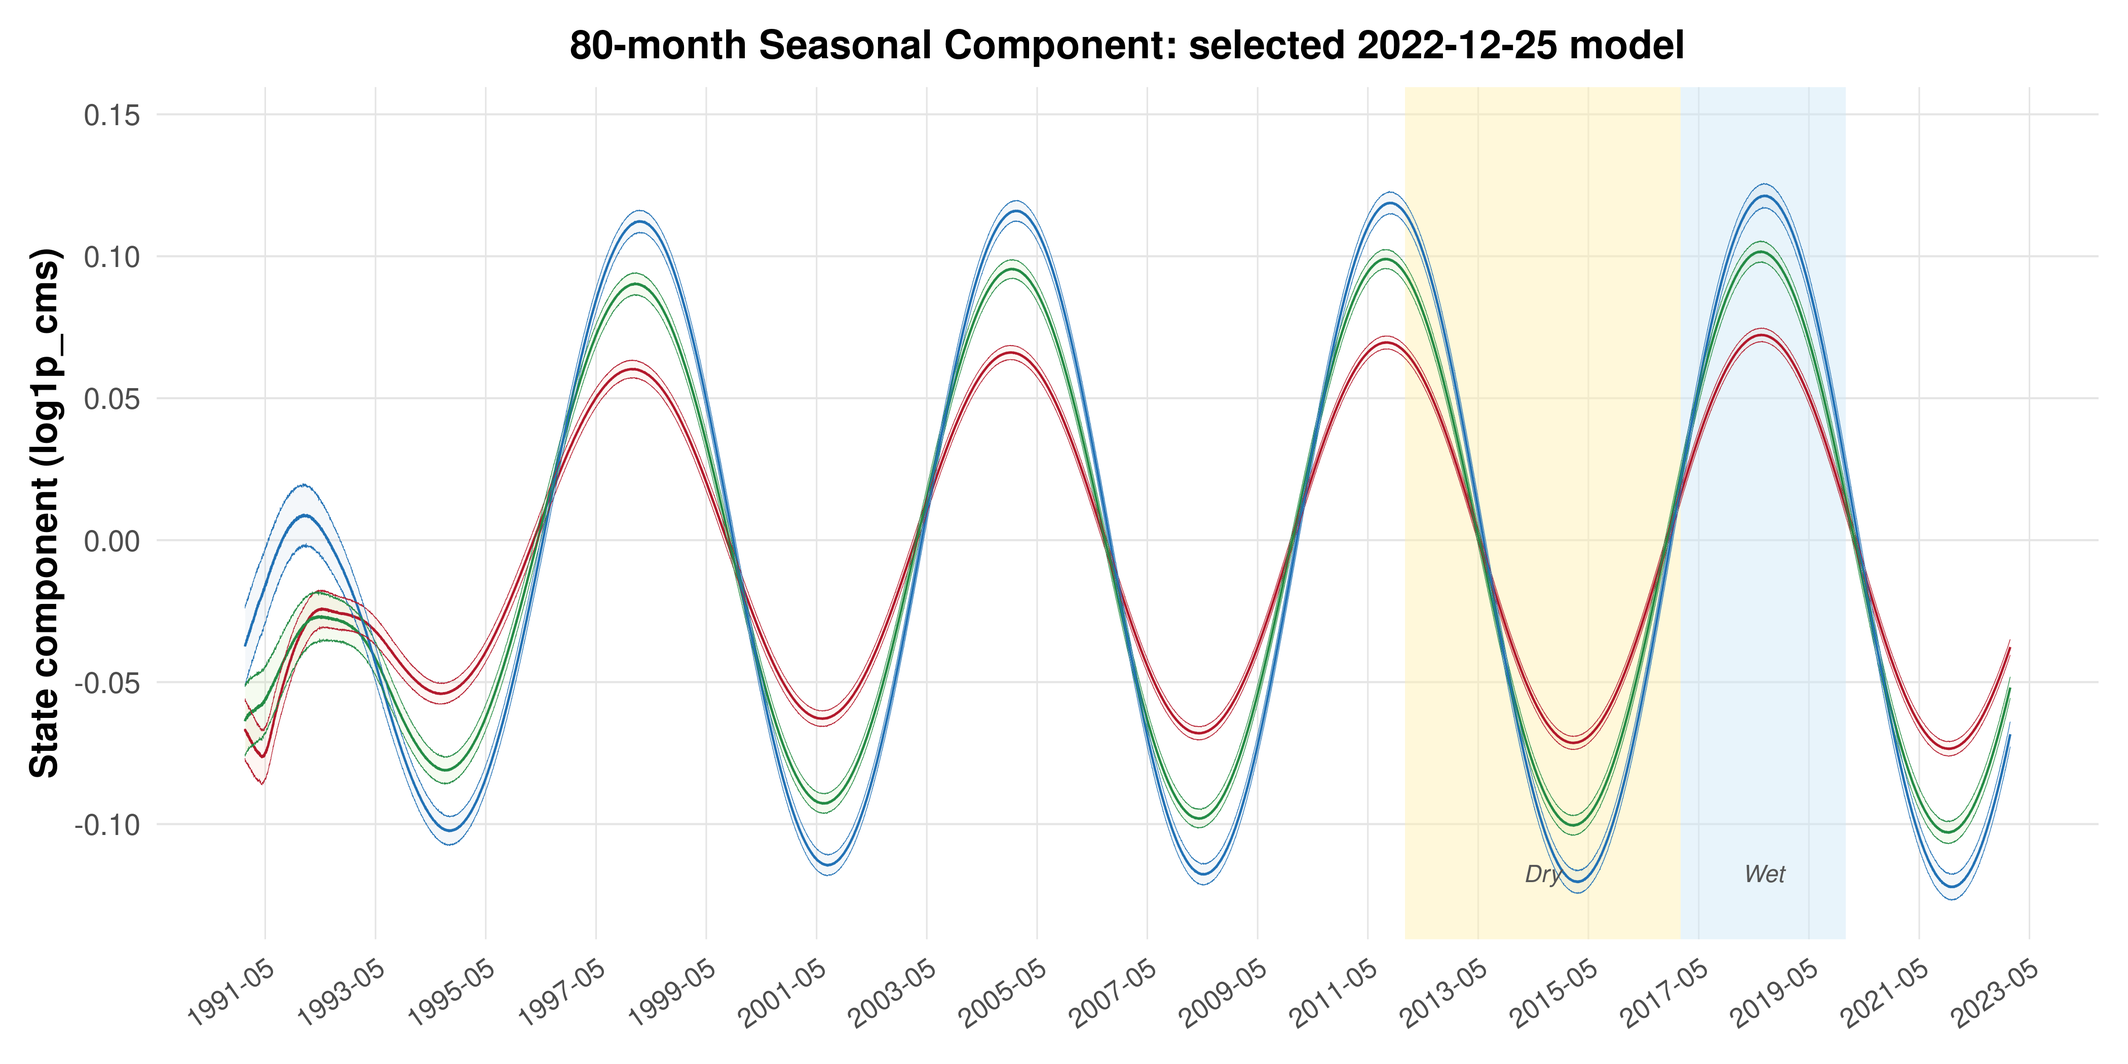
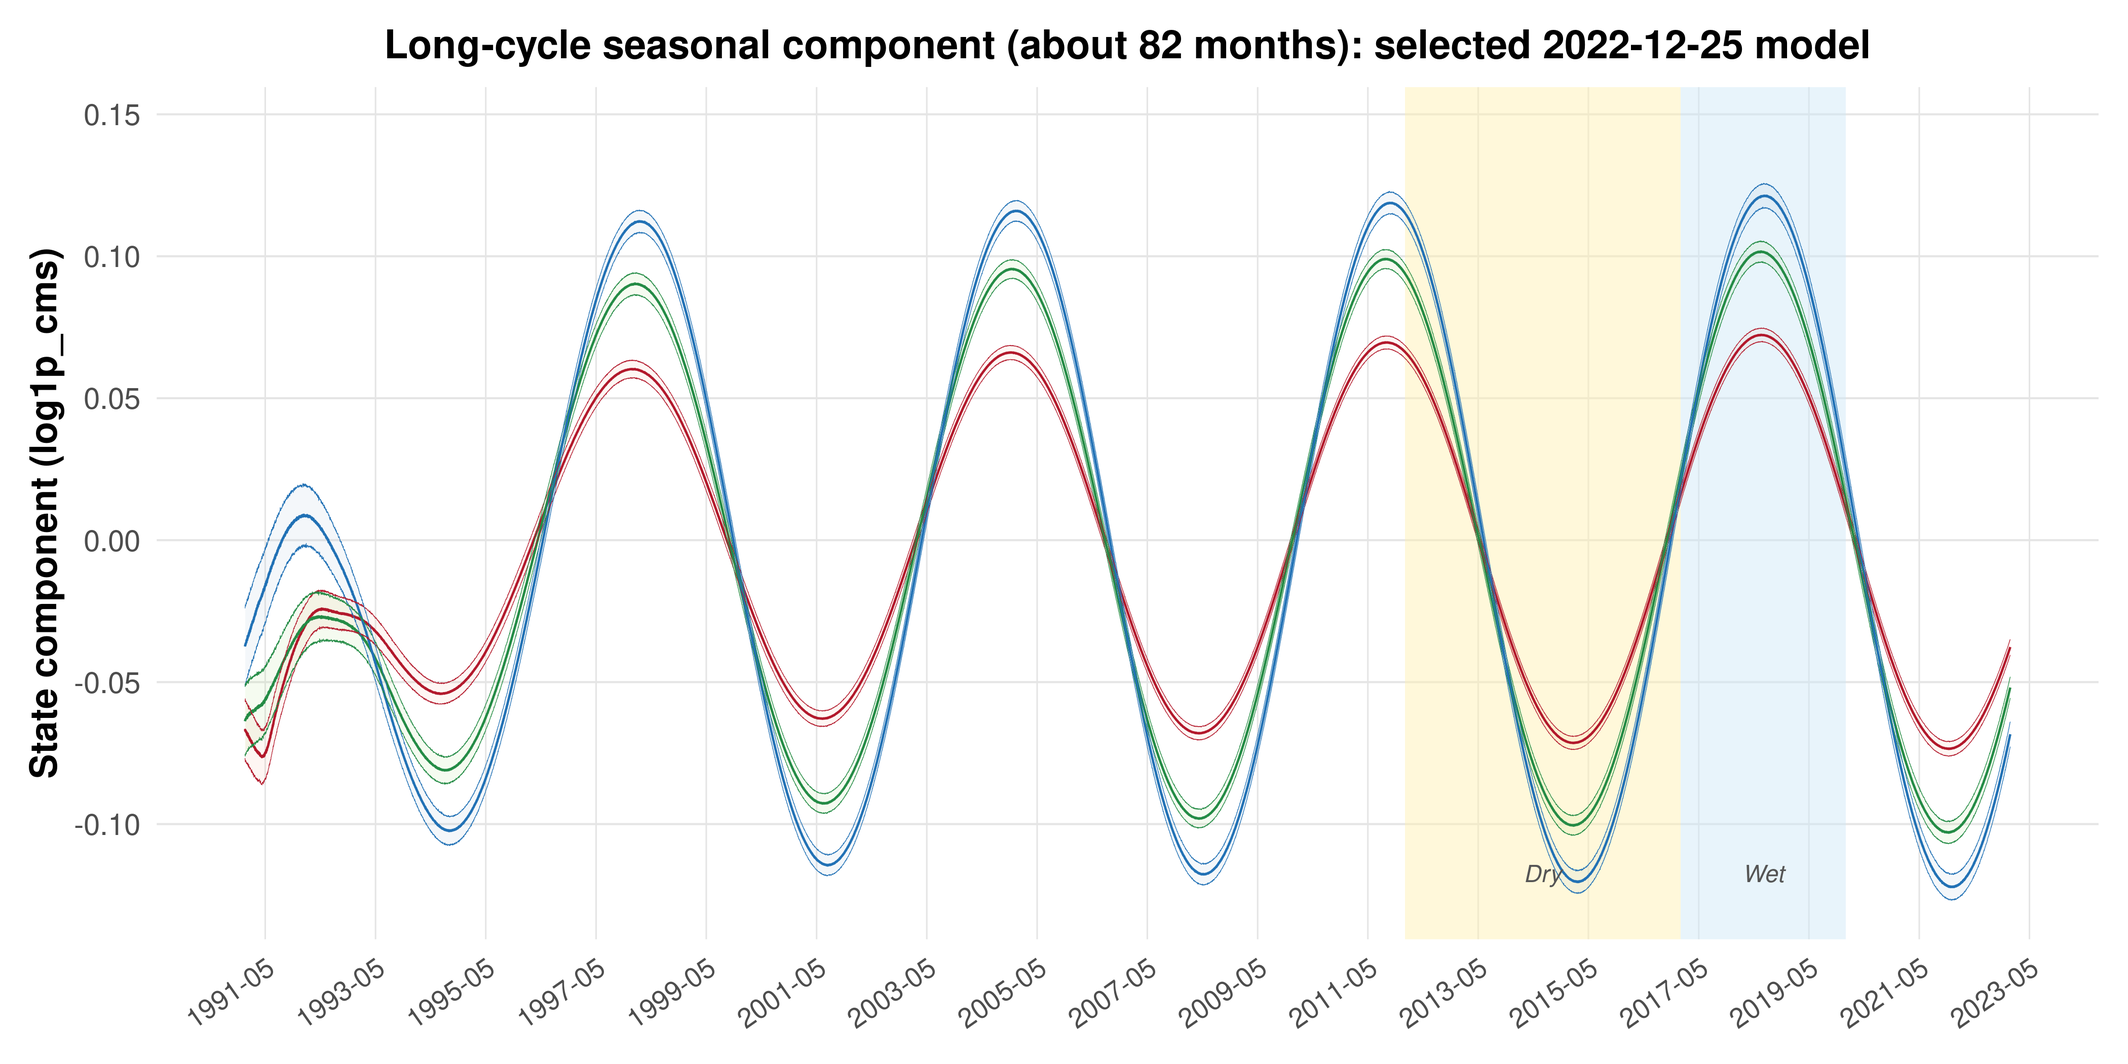
Clarify long-cycle diagnostic wording

Changed region(s): [[0.1871, 0.031, 0.8733, 0.0619]]

diff --git a/wileyNJD-APA.tex b/wileyNJD-APA.tex
@@ -336,8 +336,8 @@ The operational forecast products are used only after a cutoff date. The NWS ens
 
 For the San Lorenzo application, the latent quantile process combines a local level, three seasonal harmonics, and the transfer component defined in Section~\ref{sec:methodology}. The source-specific discrepancy states use the same trend-and-seasonal backbone. The trend-and-seasonal state has dimension \(p=7\). The matrix \(\mathbf{G}_t\) is composed of a trend component and a seasonal component. For the trend component, we include a constant term to represent the long-term average level of the quantile of interest. This component is defined by the evolution matrix and observational vector:
 \( \mathbf{G}^{\text{trend}}_t = [1] \in \mathbb{R}^{1\times1}, \quad
-\mathbf{F}^{\text{trend}}_t = [1] \in \mathbb{R}^{1}. \) The seasonal component incorporates three harmonics identified through exploratory spectral analysis to capture various seasonal cycles: an annual harmonic (12 months), a semiannual harmonic (6 months), and a long-term harmonic with an approximately 81-month (6.8 years) cycle, that captures cyclical behavior associated with alternating phases of heavy rainfall and prolonged drought. The seasonal component's evolution matrix and observational vector are defined as:
-\( \mathbf{G}^{\text{seas}}_t = \text{BlockDiag}\left(\textbf{J}_2(1,1),\ \textbf{J}_2(1,2),\ \textbf{J}_2\left(1,\frac{1}{6.8}\right)\right),\quad
+\mathbf{F}^{\text{trend}}_t = [1] \in \mathbb{R}^{1}. \) The seasonal component incorporates three harmonics identified through exploratory spectral analysis to capture various seasonal cycles: an annual harmonic (12 months), a semiannual harmonic (6 months), and a long-term harmonic with an approximately 82-month (6.81-year) cycle that captures cyclical behavior associated with alternating phases of heavy rainfall and prolonged drought. The seasonal component's evolution matrix and observational vector are defined as:
+\( \mathbf{G}^{\text{seas}}_t = \text{BlockDiag}\left(\textbf{J}_2(1,1),\ \textbf{J}_2(1,2),\ \textbf{J}_2\left(1,\frac{1}{6.8068493}\right)\right),\quad
 \mathbf{F}^{\text{seas}}_t  =
 \begin{bmatrix}
 \mathbf{E}_2 \\[5pt]
@@ -446,21 +446,20 @@ Posterior mean and 95\% credible intervals of river-flow quantiles during the we
 \label{fig:rainy_quantile}
 \end{figure}
 
-Figures~\ref{fig:dry_quantile} and \ref{fig:rainy_quantile} show clear differences between posterior dynamics in the drought and wet periods. During 2012--2016, the posterior bands remain comparatively narrow and the upper tail rarely approaches the current-rating NWS discharge-reference levels. During 2017--2019, the upper tail widens substantially during the main winter events, and the 95th quantile reaches levels comparable to the current-rating major-stage discharge reference in 2017 and 2019.
-The contrast between these periods is most visible in the \textcolor{red}{separation between the 5th and 95th quantile curves. This separation is relatively small during dry conditions but increases during wet-season peaks, indicating greater dispersion in the fitted quantile structure during periods of greater hydrological variability. These figures describe fitted historical behavior rather than the full forecast predictive distribution.}
+Figures~\ref{fig:dry_quantile} and \ref{fig:rainy_quantile} compare the fitted posterior quantile dynamics during the drought and wet periods. During 2012--2016, the posterior bands remain comparatively narrow and the upper fitted quantile rarely approaches the current-rating NWS discharge-reference levels. During 2017--2019, winter peaks produce wider separation between the lower and upper fitted quantile curves, and the 95th quantile reaches levels comparable to the current-rating major-stage discharge reference in 2017 and 2019. This contrast indicates stronger upper-tail and cross-quantile variation during wetter regimes.
 
-A complementary diagnostic is the long-cycle seasonal state. Figure~\ref{fig:80_components} shows the \textcolor{red}{ approximately 81-month} seasonal component alone for the same three representative quantile levels. This panel illustrates an interpretability advantage of the state-space formulation: the selected model is not only a forecast-correction device, but also a structured decomposition whose components can be tracked across hydrological regimes.
-The 80-month seasonal component is broadly aligned across the three representative quantiles and reflects multi-year wet and dry phases in the historical record. Its role is diagnostic: it summarizes the long-cycle behavior recovered by the selected model.
+A complementary diagnostic is the long-cycle seasonal state. Figure~\ref{fig:80_components} shows this component alone for the same three representative quantile levels. The retained noninteger seasonal frequency corresponds to a period of approximately 6.81 years, or about 82 months. The component is broadly aligned across the three quantiles and tracks multi-year dry and wet phases in the historical record, illustrating how the selected state-space model separates long-cycle behavior from trend, transfer effects, and source-specific corrections.
 
 \begin{figure}[htbp]
 \centering
 \includegraphics[width=450pt]{historical_component_80month.png}
 \caption{
-Selected-model posterior mean and 95\% credible intervals for the 80-month seasonal component, estimated from the 2022-12-25 cutoff exAL-M-T1 model. Estimates are shown for the 5th (red), 50th (green), and 95th (blue) quantiles. Shaded regions mark the 2012--2016 dry period and the 2017--2019 wet period. This panel is a retrospective component diagnostic rather than an additional forecast-validation summary.
+Selected-model posterior mean and 95\% credible intervals for the long-cycle seasonal component, with period approximately 6.81 years, or about 82 months, estimated from the 2022-12-25 cutoff exAL-M-T1 model. Estimates are shown for the 5th (red), 50th (green), and 95th (blue) quantiles. Shaded regions mark the 2012--2016 dry period and the 2017--2019 wet period. This panel is a retrospective component diagnostic rather than an additional forecast-validation summary.
 }
 \label{fig:80_components}
 \end{figure}
 
+\clearpage
 
 \subsection{Predictive Synthesis Illustration}
 \label{subsec:synthillustration}

diff --git a/scripts/refresh_authoritative_selected_model_support_figures.py b/scripts/refresh_authoritative_selected_model_support_figures.py
@@ -41,7 +41,7 @@ FIGURE_UPDATES = {
     "fig:80_components": {
         "filename": "selected_model_component_80month.png",
         "category": "Selected Model",
-        "role": "Selected-model 80-month component summary with dry/wet period overlays",
+        "role": "Selected-model long-cycle seasonal component summary with dry/wet period overlays",
         "note": "Rendered from the same 2022-12-25 selected exAL-M-T1 output authority using raw state component 6 only; plus/minus-trend variants are analysis-only diagnostics.",
     },
 }
@@ -157,7 +157,8 @@ def write_bundle_docs(bundle_root: Path, support_dir: Path, support_rows: list[d
         "# Authoritative Selected-Model Support\n\n"
         "This bundle contains compact posterior support artifacts and rendered figures for the representative "
         "`2022-12-25 exAL-M-T1` selected model. These figures are sourced from the same selected-output authority "
-        "as the synthesis figure. Figure A1 is article-labeled as the 80-month seasonal component and is rendered "
+        "as the synthesis figure. Figure A1 is article-labeled as the long-cycle seasonal component, with period "
+        "approximately 6.81 years, or about 82 months, and is rendered "
         "from raw state component 6 only with dry/wet period overlays. The `analysis_figures/component_evolution/` subfolder is an analysis-only component "
         "gallery rendered from the same support CSVs; it is checksummed here but intentionally not registered as "
         "a manuscript figure family. It also includes samplewise component-6-plus-trend and component-6-minus-trend diagnostics when "

diff --git a/tests/test_article_a1_and_table_contracts.py b/tests/test_article_a1_and_table_contracts.py
@@ -366,7 +366,10 @@ class ArticleA1AndTableContractTests(unittest.TestCase):
             meta.get("figure_a1_component_contract"),
             "raw_state_component",
         )
-        self.assertEqual(meta.get("figure_a1_article_display_label"), "80-month seasonal component only")
+        self.assertEqual(
+            meta.get("figure_a1_article_display_label"),
+            "long-cycle seasonal component only (about 82 months)",
+        )
         self.assertEqual(meta.get("render_contract_version"), "authoritative_selected_model_support_figures_v2")
         self.assertIn("source_support_generated_at_utc", meta)
         self.assertNotIn("render_staging_support_dir", meta)
@@ -447,6 +450,8 @@ class ArticleA1AndTableContractTests(unittest.TestCase):
         self.assertIn("rather than the full forecast distribution at a single origin", article)
         self.assertIn("full synthesized posterior predictive distribution", article)
         self.assertIn("posterior predictive envelope can vary across the forecast window", article)
+        self.assertIn("approximately 6.81 years, or about 82 months", article)
+        self.assertNotIn("approximately 81-month", article)
 
         manifest = json.loads((ROOT / "MANUSCRIPT_ASSET_MANIFEST.json").read_text(encoding="utf-8"))
         by_label = {row["label"]: row for row in manifest["figures"]}

diff --git a/scripts/build_figure_polish_status_audit.py b/scripts/build_figure_polish_status_audit.py
@@ -121,7 +121,7 @@ def build_items(root: Path) -> list[dict[str, object]]:
         },
         {
             'item': 8,
-            'request': 'Figure A1 should plot the 80-month seasonal component alone and use a compact, high-quality caption.',
+            'request': 'Figure A1 should plot the long-cycle seasonal component alone and use a compact, high-quality caption.',
             'status': 'complete' if long_cycle_component_only else 'partial',
             'evidence': [
                 'Figures/manuscript/historical_component_80month.png',

diff --git a/docs/figure_table_provenance.md b/docs/figure_table_provenance.md
@@ -97,10 +97,10 @@ anchored to the current exAL-M-T1 authority recorded in the article manifests.
 It should not be read as a replacement for the refreshed HE2 benchmark
 authority.
 
-The full-history dry/wet and 80-month support diagnostics are now wired to the
-same current `2022-12-25` selected `exAL-M-T1` output authority as the
-representative synthesis figure. They remain interpretation diagnostics only,
-not forecast-validation evidence.
+The full-history dry/wet and long-cycle seasonal support diagnostics are now
+wired to the same current `2022-12-25` selected `exAL-M-T1` output authority as
+the representative synthesis figure. They remain interpretation diagnostics
+only, not forecast-validation evidence.
 
 The clean current generator contract is:
 - `R/unified/stages/stage_post.R`
@@ -315,7 +315,7 @@ The following manuscript figure assets in `Evironmetrics---REVISED-DOC-Corrected
 | `fig:dry_quantile` | `Figures/manuscript/historical_summary_dry_period.png` | selected-model fitted quantile-location diagnostic, dry regime | `2022-12-25 exAL-M-T1` selected-output support figure copied from `artifacts/representative_selected_model_2022_12_25/authoritative_support/figures/selected_model_quantile_dry_period.png` | yes | current representative selected-output interpretation support | selected-model support diagnostic; not part of the refreshed forecast-validation evidence | keep as selected-model diagnostic, not forecast-validation evidence |
 | `fig:rainy_quantile` | `Figures/manuscript/historical_summary_wet_period.png` | selected-model fitted quantile-location diagnostic, wet regime | `2022-12-25 exAL-M-T1` selected-output support figure copied from `artifacts/representative_selected_model_2022_12_25/authoritative_support/figures/selected_model_quantile_wet_period.png` | yes | current representative selected-output interpretation support | selected-model support diagnostic; not part of the refreshed forecast-validation evidence | keep as selected-model diagnostic, not forecast-validation evidence |
 | `fig:synth1` | `Figures/multivariate_synthesis_by_cutoff/cutoff_2022_12_25_multivariate_synthesis_with_reference_ensembles.png` | predictive synthesis illustration | clean 2022-12-25 member of the five-cutoff main-model synthesis family, with exact source `artifacts/five_cutoff_main_model_synthesis/20221225_exal_m_t1/exdqlm_multivar_synth_keep_cutoff_window_posterior_samples_with_raw_ensembles.png` | yes | reproducible from the five-cutoff selected `exAL-M-T1` synthesis family and frozen locally | locked to representative `2022-12-25` selected-model synthesis output | keep synced to the five-cutoff synthesis family rather than the older manuscript-only representative copy |
-| `fig:80_components` | `Figures/manuscript/historical_component_80month.png` | selected-model 80-month seasonal-component diagnostic with dry/wet overlays | `2022-12-25 exAL-M-T1` selected-output support figure copied from `artifacts/representative_selected_model_2022_12_25/authoritative_support/figures/selected_model_component_80month.png` using raw state component 6 only | yes | current representative selected-output interpretation support | selected-model support diagnostic; not part of the refreshed forecast-validation evidence | keep as selected-model diagnostic, not forecast-validation evidence |
+| `fig:80_components` | `Figures/manuscript/historical_component_80month.png` | selected-model long-cycle seasonal-component diagnostic with dry/wet overlays | `2022-12-25 exAL-M-T1` selected-output support figure copied from `artifacts/representative_selected_model_2022_12_25/authoritative_support/figures/selected_model_component_80month.png` using raw state component 6 only | yes | current representative selected-output interpretation support | selected-model support diagnostic; not part of the refreshed forecast-validation evidence | keep as selected-model diagnostic, not forecast-validation evidence |
 | `fig:synth2` | `Figures/manuscript/reference_synthesis_univariate.png` | appendix univariate transfer-active predictive synthesis | current `2022-12-25 exdqlm_univar` publication-style output bundle copied into `artifacts/historical_support_from_current_models/` | yes | reproducible from current model outputs and frozen locally in the article repo | current-model appendix support figure outside the narrow five-run keep lineage | keep with explicit current-output support provenance; reference excludes retrospective-product and forecast-product source channels |
 
 ### Notes on figure confidence

diff --git a/artifacts/representative_selected_model_2022_12_25/authoritative_support/README.md b/artifacts/representative_selected_model_2022_12_25/authoritative_support/README.md
@@ -1,6 +1,6 @@
 # Authoritative Selected-Model Support
 
-This bundle contains compact posterior support artifacts and rendered figures for the representative `2022-12-25 exAL-M-T1` selected model. These figures are sourced from the same selected-output authority as the synthesis figure. Figure A1 is article-labeled as the 80-month seasonal component and is rendered from raw state component 6 only with dry/wet period overlays. The `analysis_figures/component_evolution/` subfolder is an analysis-only component gallery rendered from the same support CSVs; it is checksummed here but intentionally not registered as a manuscript figure family. It also includes samplewise component-6-plus-trend and component-6-minus-trend diagnostics when the support summary provides those contracts.
+This bundle contains compact posterior support artifacts and rendered figures for the representative `2022-12-25 exAL-M-T1` selected model. These figures are sourced from the same selected-output authority as the synthesis figure. Figure A1 is article-labeled as the long-cycle seasonal component, with period approximately 6.81 years, or about 82 months, and is rendered from raw state component 6 only with dry/wet period overlays. The `analysis_figures/component_evolution/` subfolder is an analysis-only component gallery rendered from the same support CSVs; it is checksummed here but intentionally not registered as a manuscript figure family. It also includes samplewise component-6-plus-trend and component-6-minus-trend diagnostics when the support summary provides those contracts.
 
 The support bundle is tied to the same current `2022-12-25` selected `exAL-M-T1` output authority used by the representative synthesis figure.
 

diff --git a/docs/exal_m_t1_artifact_run_map.md b/docs/exal_m_t1_artifact_run_map.md
@@ -14,7 +14,7 @@ It is the execution companion to:
 Important transition note:
 - the main HE2 benchmark authority now combines the two retained canonical-grid winners for `20210123` and `20211112` with three clean `20260623` replays for `20211221`, `20220511`, and `20221225`;
 - the refreshed clean replays are the source for the promoted CRPS values, representative synthesis panel, cutoff-specific multivariate synthesis panels, posterior table exports, and source/covariate summaries;
-- the historical dry/wet and 80-month support diagnostics are wired to the same current `2022-12-25` selected `exAL-M-T1` output authority as the representative synthesis figure, while remaining interpretation diagnostics rather than forecast-validation evidence.
+- the historical dry/wet and long-cycle seasonal support diagnostics are wired to the same current `2022-12-25` selected `exAL-M-T1` output authority as the representative synthesis figure, while remaining interpretation diagnostics rather than forecast-validation evidence.
 
 ## Cleanup status
 

diff --git a/docs/article_repository_structure.md b/docs/article_repository_structure.md
@@ -80,7 +80,7 @@ These are advisor-facing copies of the Figure 4 forecast-context view for every 
 - `artifacts/historical_support_from_current_models/`
   - appendix univariate transfer-active reference synthesis support
 - `artifacts/representative_selected_model_2022_12_25/`
-  - representative selected-model bundle for the verified 2022-12-25 exAL-M-T1 rerun, including the selected-model quantile-dynamic and 80-month component diagnostics
+  - representative selected-model bundle for the verified 2022-12-25 exAL-M-T1 rerun, including the selected-model quantile-dynamic and long-cycle component diagnostics
 - `artifacts/five_cutoff_crps_validation_sources/`
   - five-cutoff CRPS source freeze used by the benchmark table
 - `artifacts/he2_publication_freeze/`

diff --git a/artifacts/representative_selected_model_2022_12_25/authoritative_support/analysis_figures/component_evolution/README.md b/artifacts/representative_selected_model_2022_12_25/authoritative_support/analysis_figures/component_evolution/README.md
@@ -6,8 +6,8 @@ They are analysis-only diagnostics and are intentionally not added to `MANUSCRIP
 Included contracts:
 
 - `raw_state_component` for each retained state component available in the support CSV; component 6 is the audited Figure A1 construction.
-- `component_6_plus_trend_component_1_samplewise`, the samplewise 80-month component plus trend diagnostic.
-- `component_6_minus_trend_component_1_samplewise`, the samplewise 80-month component minus trend diagnostic.
+- `component_6_plus_trend_component_1_samplewise`, the samplewise long-cycle component plus trend diagnostic.
+- `component_6_minus_trend_component_1_samplewise`, the samplewise long-cycle component minus trend diagnostic.
 
 Excluded by default:
 

diff --git a/docs/manuscript_revision_checklist.md b/docs/manuscript_revision_checklist.md
@@ -792,7 +792,7 @@ If replaced:
 
 - [x] Decide whether the historical-regime figures remain as a compact main-text block or move to supplement.
   - Source: structural blueprint Section 4
-  - Decision: keep the dry/wet regime pair in the main text; keep the 80-month seasonal figure in the selected-model interpretation section as a component diagnostic.
+  - Decision: keep the dry/wet regime pair in the main text; keep the long-cycle seasonal figure in the selected-model interpretation section as a component diagnostic.
 
 ### Phase H. Conclusions and final consistency pass
 Goal: only after the body is stable.
